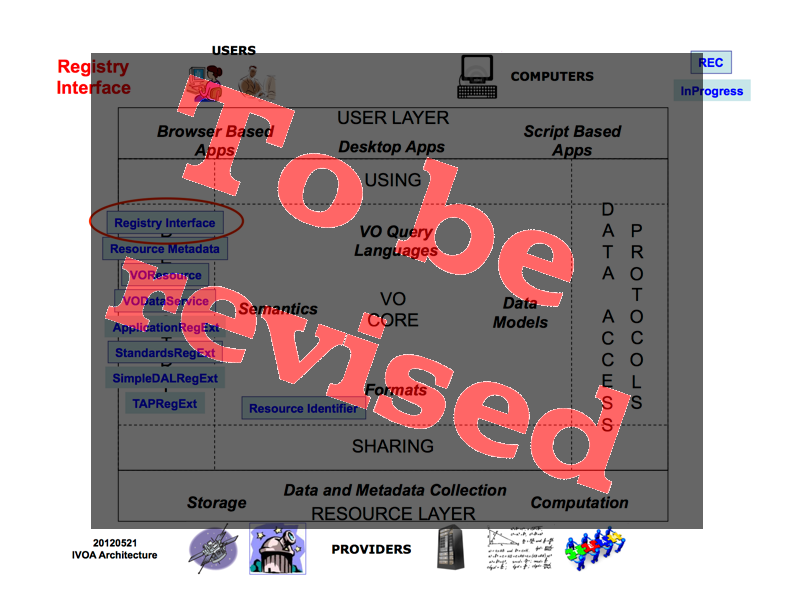
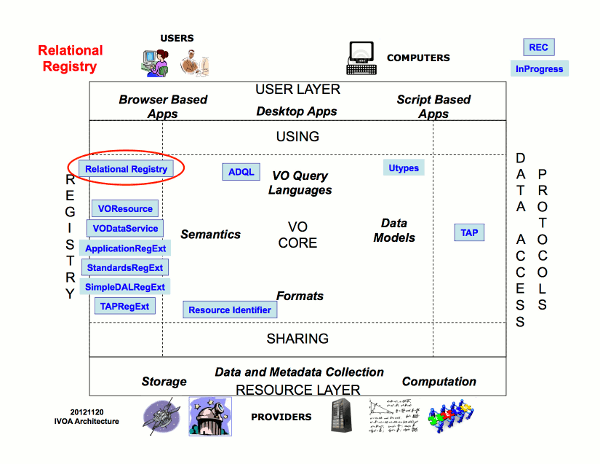
Stated foreign key relation for res_interface (Thanks, Marco)
Updated architecture diagram (Thanks, Severin)

diff --git a/RegTAP-fmt.html b/RegTAP-fmt.html
@@ -1069,7 +1069,8 @@ interface.</dd>
 </tbody></table></div>
 <!-- /GENERATED -->
 
-<p>This table should have the pair <code>ivoid</code>, and
+<p>This table should have <code>ivoid</code> as an explicit foreign key into
+<code>resource</code>, and the pair <code>ivoid</code>, and
 <code>intf_index</code> as an explicit primary key.  The pair
 <code>ivoid</code>, <code>cap_index</code> is frequently used in joins
 with the capability table and hence should be indexed.  Additionally, it
@@ -1818,7 +1819,7 @@ into account.</p>
 				<td>ivo-id</td>
 				<td><code>VARCHAR(255)</code></td>
 				<td>
-					{all_table}.ivoid<br/>
+					{all_tables}.ivoid<br/>
 					resource.footprint_ivoid<br/>
 					res_role.role_ivoid<br/>
 					capability.standard_id<br/>
@@ -1861,7 +1862,6 @@ SQL types are those that require numeric values, viz.,
 					table_column.std<br/>
 					interface.cap_index<br/>
 					interface.intf_index<br/>
-					intf_param.cap_index<br/>
 					intf_param.intf_index<br/>
 					intf_param.std<br/>
 					validation.level<br/>

diff --git a/RegTAP.html b/RegTAP.html
@@ -1081,7 +1081,8 @@ interface.</dd>
 </tbody></table></div>
 <!-- /GENERATED -->
 
-<p>This table should have the pair <code>ivoid</code>, and
+<p>This table should have <code>ivoid</code> as an explicit foreign key into
+<code>resource</code>, and the pair <code>ivoid</code>, and
 <code>intf_index</code> as an explicit primary key.  The pair
 <code>ivoid</code>, <code>cap_index</code> is frequently used in joins
 with the capability table and hence should be indexed.  Additionally, it
